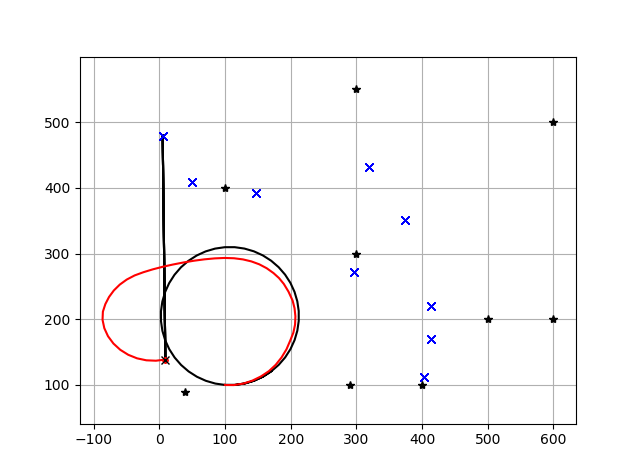
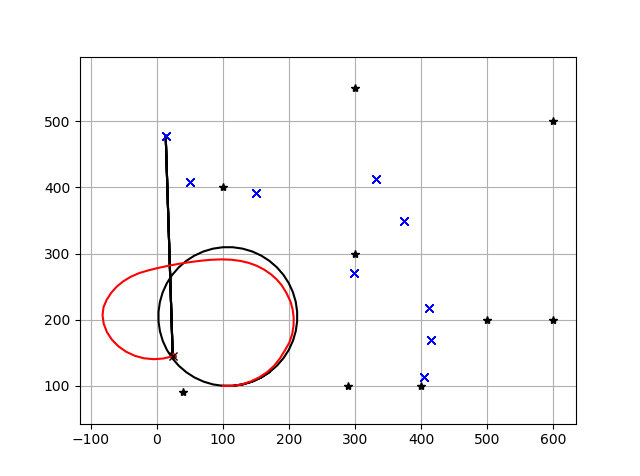
Buggy Landmark updates

diff --git a/EE183DB/AdaptableSLAMSolution/OnBoardCamera/fs2.py b/EE183DB/AdaptableSLAMSolution/OnBoardCamera/fs2.py
@@ -6,7 +6,7 @@ import ContourFind
 from scipy.stats import multivariate_normal
 
 
-width = 123
+width = 70
 """
 # Fast SLAM covariance
 # What we modeled:
@@ -114,7 +114,7 @@ def add_new_lm_mod(particle, z, R):
     try:
         lm_id = lst.index([0,0])
     except ValueError:
-        print("Could not find 0,0")
+        print("Could not find 0,0; Empty lm holder")
         return particle, -1
     # plus should be changed to minus when using contour
     s = math.sin(pi_2_pi(particle.yaw + b))
@@ -362,18 +362,9 @@ def make_obs(particles, st_true, st_dr, u, img, env_lm):
             lm_ids = np.zeros((1,N_LM))
             lm_id = 0
             for ip in range(N_PARTICLE):
-                """
-                Problems right now:
-                1. How would the particle know to add 
-                a new landmark if it has seen a few before, but not this one.
-                Because right now, it is associating what it is seeing to a previously seen one
-                that seems the most similar(closest).
-                Setting boundary of 20 mm
-                """
                 if particles[ip].seen == 0:
                     print("Particle has never seen before\n")
                     particles[ip], lm_id = add_new_lm_mod(particles[ip], loc, R)
-                    lm_ids[0,lm_id] += 1
                 else:
                     #vote for the shortest distance one
                     vote_id = 0
@@ -383,19 +374,17 @@ def make_obs(particles, st_true, st_dr, u, img, env_lm):
                         print("il, Dist from obs to stored", il, curr_dist)
                         if (min_dist > curr_dist and curr_dist < 25.0):
                             print("Associated with distance", curr_dist)
-                            vote_id = il
+                            lm_id = il
                             min_dist = curr_dist
                         
 
                     if min_dist == 10000000:
                         print("No suitable landmarks matched")
                         particles[ip], lm_id = add_new_lm_mod(particles[ip], loc, R)
-                        if lm_id != -1:
-                            vote_id = lm_id
-                        else:
+                        if lm_id == -1:
                             continue
                     #print(vote_id)
-                    lm_ids[0,vote_id] += 1
+                lm_ids[0,lm_id] += 1
 
 
 
@@ -445,17 +434,12 @@ def update_with_observation(particles, z):
 
     for iz in range(len(z[0, :])):
         lmid = int(z[2, iz])
-
         for ip in range(N_PARTICLE):
             # new landmark
-            if abs(particles[ip].lm[lmid, 0]) <= 0.01:
-                particles[ip] = add_new_lm(particles[ip], z[:, iz], R)
-            # known landmark
-            else:
-                w = compute_weight(particles[ip], z[:, iz], R)
-                particles[ip].w *= w
-                particles[ip] = update_landmark(particles[ip], z[:, iz], R)
-                particles[ip] = proposal_sampling(particles[ip], z[:, iz], R)
+            w = compute_weight(particles[ip], z[:, iz], R)
+            particles[ip].w *= w
+            particles[ip] = update_landmark(particles[ip], z[:, iz], R)
+            particles[ip] = proposal_sampling(particles[ip], z[:, iz], R)
 
     return particles
 
